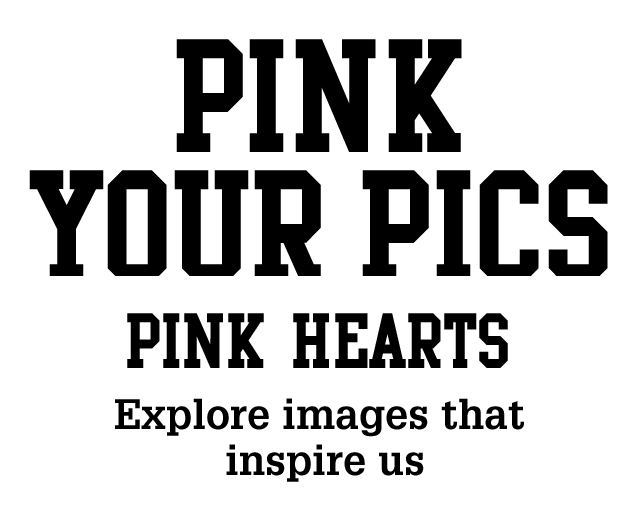
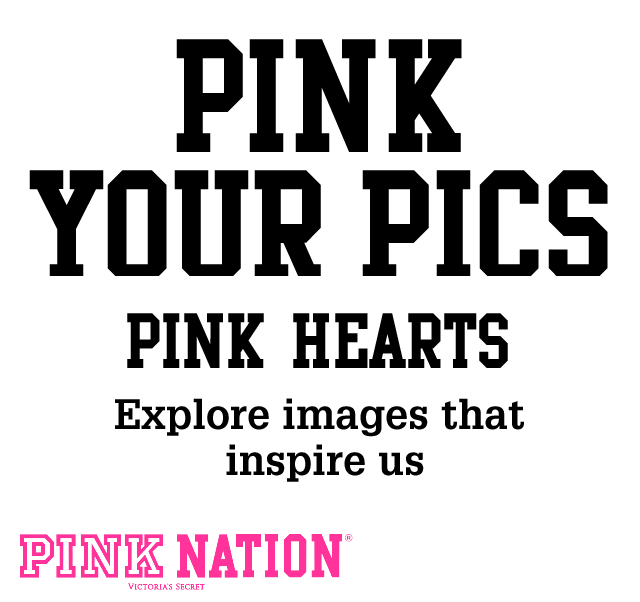
Add header bar

Changed region(s): [[0.0312, 0.0623, 0.9688, 0.9961]]

diff --git a/css/theme.less b/css/theme.less
@@ -1289,6 +1289,20 @@ a.ui-link-inherit {
     margin-right: 0;
 }
 
+.PINK-native-title{
+    .PINK-header-logo{
+        background-image: url('../gfx/PINK-menu-text.png');
+        background-position: bottom left;
+        background-repeat: no-repeat;
+        position: absolute;
+        left: 0;
+        top: 0;
+        width: 180px;
+        height:44px;
+    }
+    
+}
+
 
 .PINK-menu-list{
     .ui-btn-inner {
@@ -1553,7 +1567,7 @@ a.ui-link-inherit {
 
 @media only screen and (-webkit-min-device-pixel-ratio: 2) {
     .ui-body-c .image-frame{ background-image: url('../gfx/retina/PINK-image-shadow.png'); background-size: 280px 6px;}
-    .PINK-title, .PINK-menu-list .PINK-hearts-menu-btn{ background-image: url('../gfx/retina/PINK-menu-text.png'); background-size: 320px 257px;}
+    .PINK-title, .PINK-menu-list .PINK-hearts-menu-btn{ background-image: url('../gfx/retina/PINK-menu-text.png'); background-size: 320px 301px;}
     .PINK-menu-list .PINK-menu-icon{background-image: url('../gfx/retina/PINK-btn-icons.png'); background-size: 162px 126px;}
     .PINK-menu-list .home-pink-hearts .ui-icon-arrow-r { background-image: url('../gfx/retina/PINK-arrow-right.png'); background-size: 20px 20px;}
     body {background-image: url('../gfx/retina/PINK-noise.gif'); background-size: 80px 80px;}

diff --git a/css/theme.css b/css/theme.css
@@ -1530,6 +1530,16 @@ a.ui-link-inherit {
   margin-left: 0;
   margin-right: 0;
 }
+.PINK-native-title .PINK-header-logo {
+  background-image: url('../gfx/PINK-menu-text.png');
+  background-position: bottom left;
+  background-repeat: no-repeat;
+  position: absolute;
+  left: 0;
+  top: 0;
+  width: 180px;
+  height: 44px;
+}
 .PINK-menu-list .ui-btn-inner {
   border-top: none;
 }
@@ -1742,7 +1752,7 @@ a.ui-link-inherit {
   }
   .PINK-title, .PINK-menu-list .PINK-hearts-menu-btn {
     background-image: url('../gfx/retina/PINK-menu-text.png');
-    background-size: 320px 257px;
+    background-size: 320px 301px;
   }
   .PINK-menu-list .PINK-menu-icon {
     background-image: url('../gfx/retina/PINK-btn-icons.png');

diff --git a/index.html b/index.html
@@ -19,6 +19,12 @@
 
     <!-- main menu / home page -->
     <div id="home" data-title="PINK Nation" data-role="page">
+        <div data-role="header" class="PINK-native-title">
+         <span class="PINK-header-logo"></span>  
+            <h1></h1>
+          
+        	
+        </div>
         <div data-role="content">
             <h1 class="PINK-title acessibility-text">PINK Your Pics</h1>
             <ul data-role="listview" class="PINK-menu-list">
